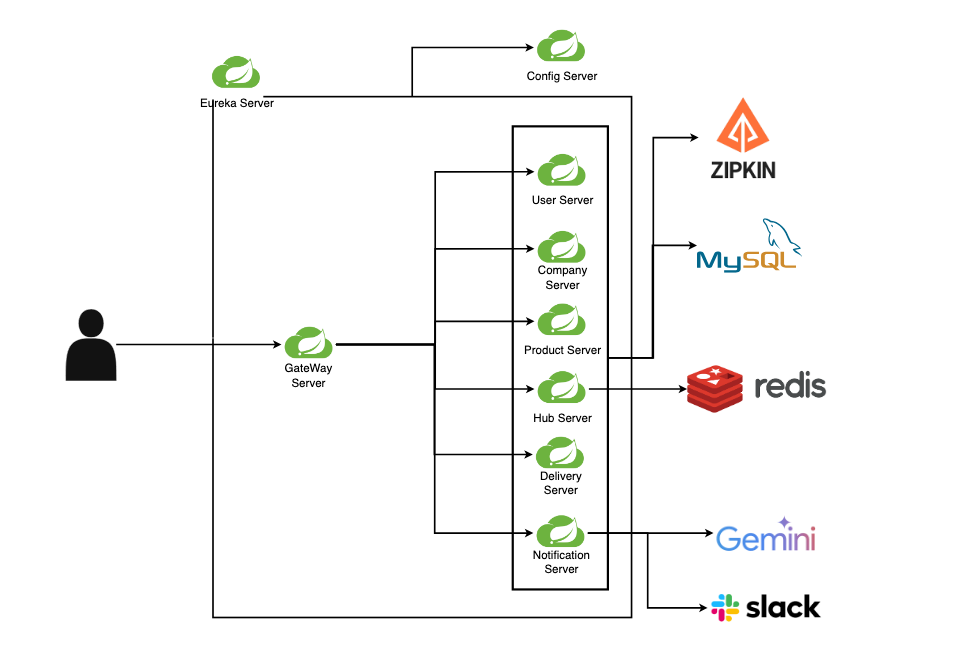
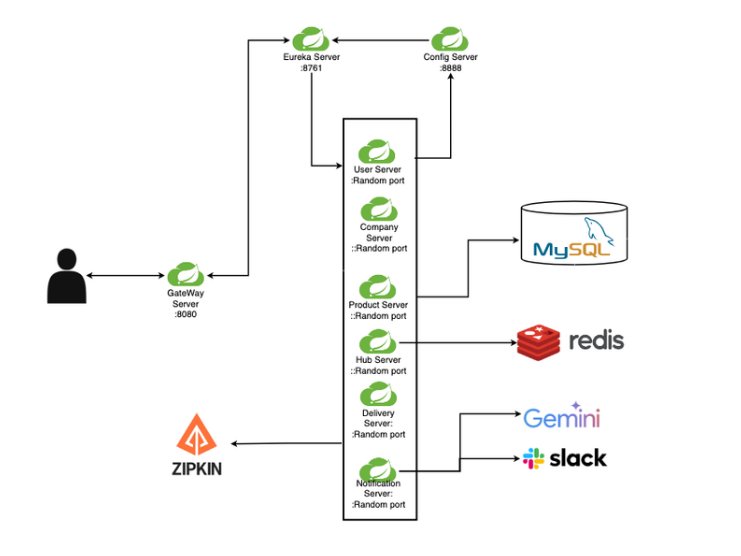
[docs] architecture 이미지 최신화

Changed region(s): [[0.0621, 0.0306, 0.8691, 0.9478]]

diff --git a/README.md b/README.md
@@ -327,7 +327,7 @@ HubEleven
 </details>
 
 ### Architecture
-![img.png](images/Architecture.png)
+![img_1.png](img_1.png)
 ---
 
 ## 📡 API 명세
